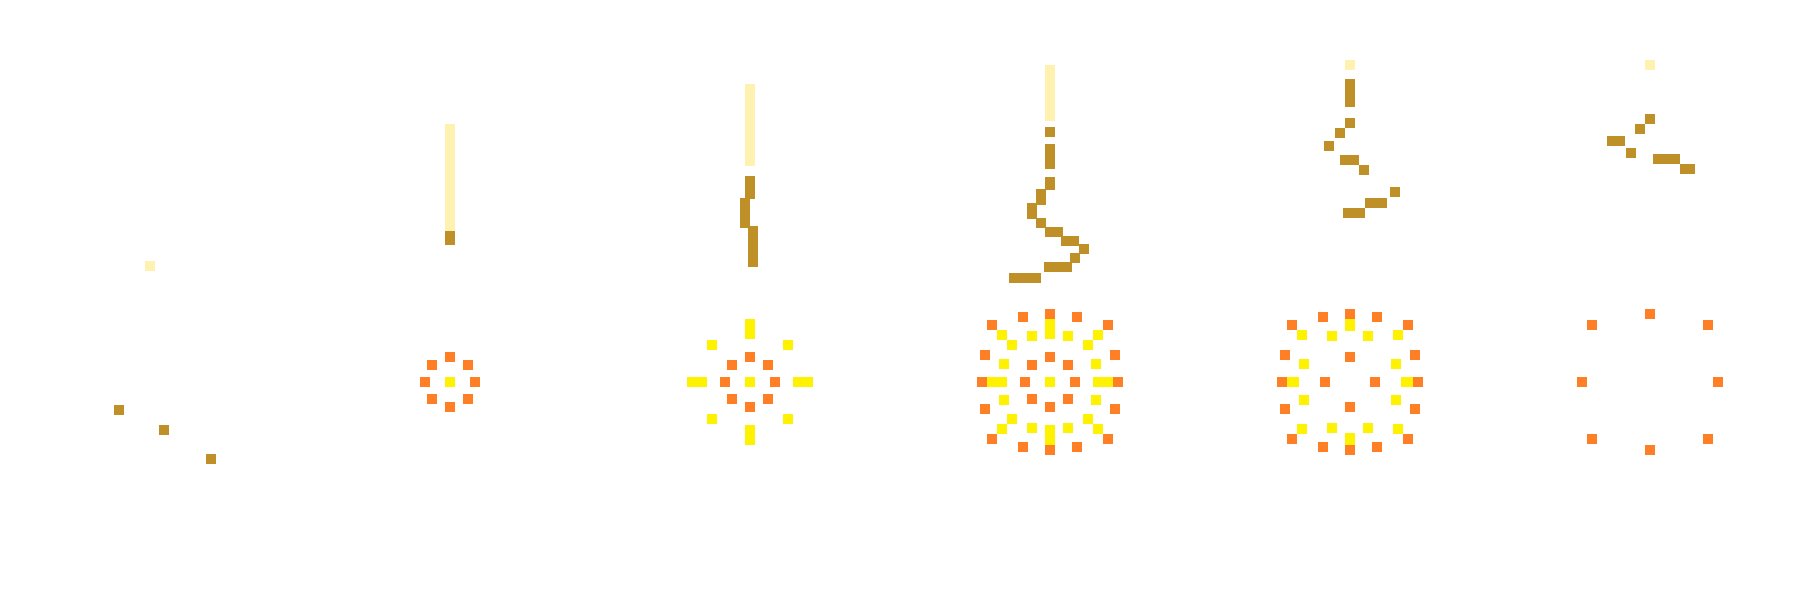
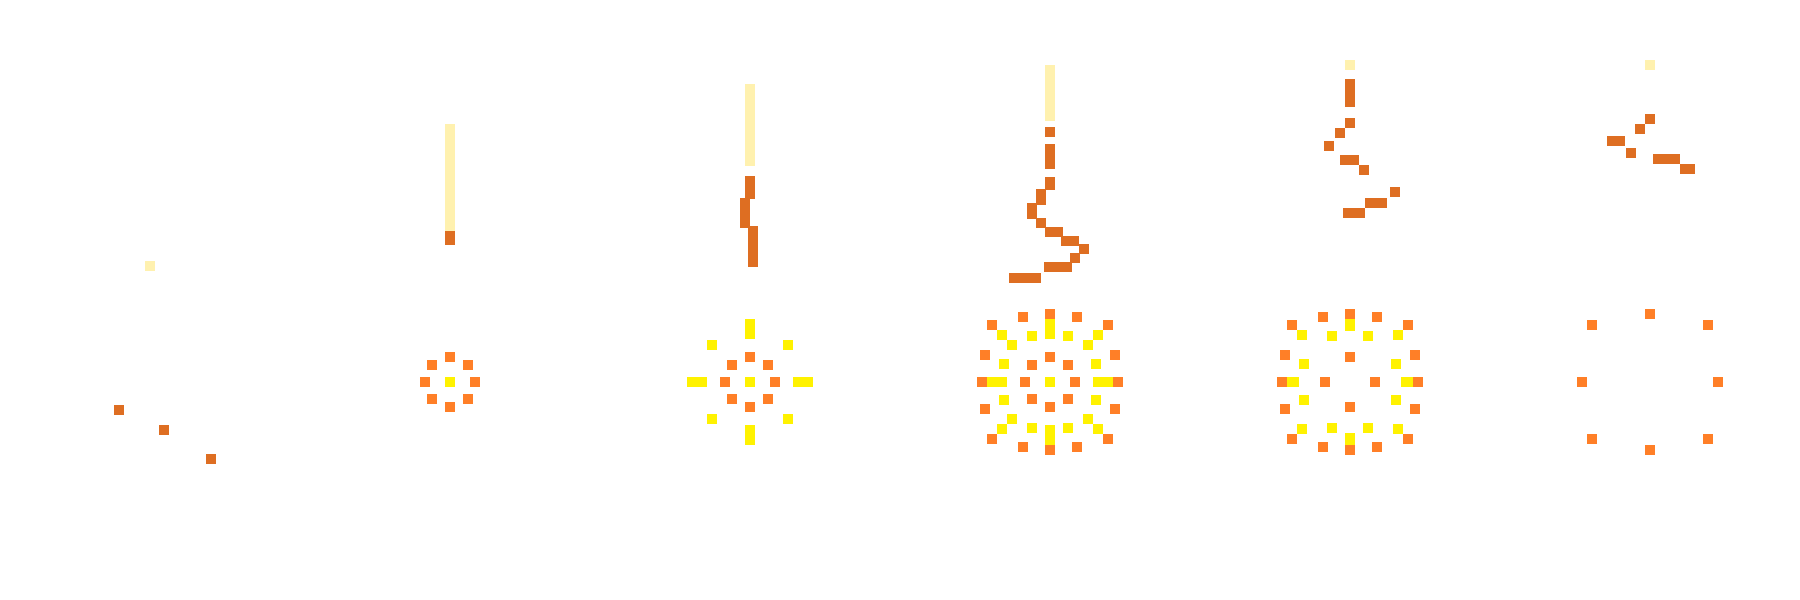
花火演出処理修正

diff --git a/DxLib_TGS2025/Src/Object/Goal.cpp b/DxLib_TGS2025/Src/Object/Goal.cpp
@@ -34,8 +34,18 @@ void GoalInit(void)
 	goal.print_flag = false;
 	
 	goal.firework_count = 0;
-	goal.add_y = 0.0f;
-	goal.firework_rate = 0.0f;
+	goal.add_y[0] = 0.0f;
+	goal.add_y[1] = 0.0f;
+	goal.add_y[2] = 0.0f;
+	goal.firework_rate[0] = 0.0f;
+	goal.firework_rate[1] = 0.0f;
+	goal.firework_rate[2] = 0.0f;
+	goal.firework_num[0] = 0;
+	goal.firework_num[1] = 0;
+	goal.firework_num[2] = 0;
+	goal.firework_x[0] = 150.0f;
+	goal.firework_x[1] = 1100.0f;
+	goal.firework_x[2] = 650.0f;
 }
 
 
@@ -49,6 +59,8 @@ void GoalResourceInit(void)
 
 	goal.gameover_image = LoadGraph("Resource/images/GAMEOVER.png");
 	LoadDivGraph("Resource/images/firework.png", 12, 6, 2, 300, 300, goal.firework_image);
+	LoadDivGraph("Resource/images/firework2.png", 12, 6, 2, 300, 300, goal.firework_image2);
+	LoadDivGraph("Resource/images/firework3.png", 12, 6, 2, 300, 300, goal.firework_image3);
 }
 //更新
 void GoalUpdate(void)
@@ -63,28 +75,41 @@ void GoalUpdate(void)
 		GoalReset();
 	}
 
-	//仮
+	//花火処理
 	if (goal.print_flag == true)
 	{
 		goal.firework_count++;
-		if (goal.firework_count > 90)
+		if (goal.firework_count > 150)
 		{
 			goal.firework_count = 0;
-			goal.add_y = 0.0f;
+			goal.add_y[0] = 0.0f;
+			goal.add_y[1] = 0.0f;
+			goal.add_y[2] = 0.0f;
+			goal.firework_x[0] = GetRand(1000) % (200 - 100 + 1) + 100;
+			goal.firework_x[1] = GetRand(1000) % (1150 - 1050 + 1) + 1050;
+			goal.firework_x[2] = GetRand(1000) % (700 - 600 + 1) + 600;
 		}
-		if (goal.firework_count < 35)
+		for (int i = 0; i < 3; i++)
 		{
-			goal.add_y+=5.0f;
+			if (goal.firework_count - i * 25 < 35&& goal.firework_count - i * 25 > 0)
+			{
+				goal.add_y[i] += 5.0f;
+			}
 		}
-		if (goal.firework_count > 35)
+		for (int i = 0; i < 3; i++)
 		{
-			goal.firework_rate = 2.0f;
+			if (goal.firework_count - i * 25 > 35)
+			{
+				goal.firework_rate[i] = 2.0f;
+			}
+			else
+			{
+				goal.firework_rate[i] = 1.0f;
+			}
 		}
-		else
-		{
-			goal.firework_rate = 1.0f;
-		}
-		goal.firework_num = goal.firework_count /5;
+		goal.firework_num[0] = goal.firework_count / 5;
+		goal.firework_num[1] = (goal.firework_count - 25) / 5;
+		goal.firework_num[2] = (goal.firework_count - 50) / 5;
 	}
 }
 
@@ -95,10 +120,22 @@ void GoalDraw(void)
 	{
 		DrawRotaGraphF(640.0f, 360.0f, 1.0, 0.0, goal.whiteback_image, TRUE);
 		DrawRotaGraphF(640.0f, 360.0f, 1.0, 0.0, goal.whiteback_image, TRUE);
-		DrawRotaGraphF(150.0f, 570.0f - goal.add_y, goal.firework_rate, 0.0, goal.firework_image[goal.firework_num], TRUE);
+		//花火描画
+		if (goal.firework_num[0] < 12&& goal.firework_num[0] > 0)
+		{
+			DrawRotaGraphF(goal.firework_x[0], 570.0f - goal.add_y[0], goal.firework_rate[0] - 0.2f, 0.0, goal.firework_image[goal.firework_num[0]], TRUE);
+		}
+		if (goal.firework_num[1] < 12 && goal.firework_num[1] > 0)
+		{
+			DrawRotaGraphF(goal.firework_x[1], 750.0f - goal.add_y[1], goal.firework_rate[1], 0.0, goal.firework_image2[goal.firework_num[1]], TRUE);
+		}
+		if (goal.firework_num[2] < 12 && goal.firework_num[2] > 0)
+		{
+			DrawRotaGraphF(goal.firework_x[2], 500.0f - goal.add_y[2], goal.firework_rate[2], 0.0, goal.firework_image3[goal.firework_num[2]], TRUE);
+		}
+		//ここまで
 		DrawRotaGraphF(615.0f, 380.0f, 1.0, 0.0, goal.print_image, TRUE);
 	}
-
 	GameOverDraw(GetGameOver());
 }
 	
@@ -176,7 +213,3 @@ void GameOverDraw(const GameOver* gameover)
 		DrawRotaGraphF(615.0f, 380.0f, 1.0, 0.0, goal.gameover_image, TRUE);
 	}
 }
-
-
-
-

diff --git a/DxLib_TGS2025/Src/Object/Goal.h b/DxLib_TGS2025/Src/Object/Goal.h
@@ -13,15 +13,19 @@ struct Goal
 	bool print_flag;
 	int count;
 	int print_count;
+	int rand_handle;
+	float firework_x[3];
 	int firework_count;
-	int firework_num;
-	float add_y;
-	float firework_rate;
+	int firework_num[3];
+	float add_y[3];
+	float firework_rate[3];
 
 	int gameover_image;
 	int whiteback_image;
 	int blackback_image;
 	int firework_image[12];
+	int firework_image2[12];
+	int firework_image3[12];
 };
 
 void GoalInit(void);
